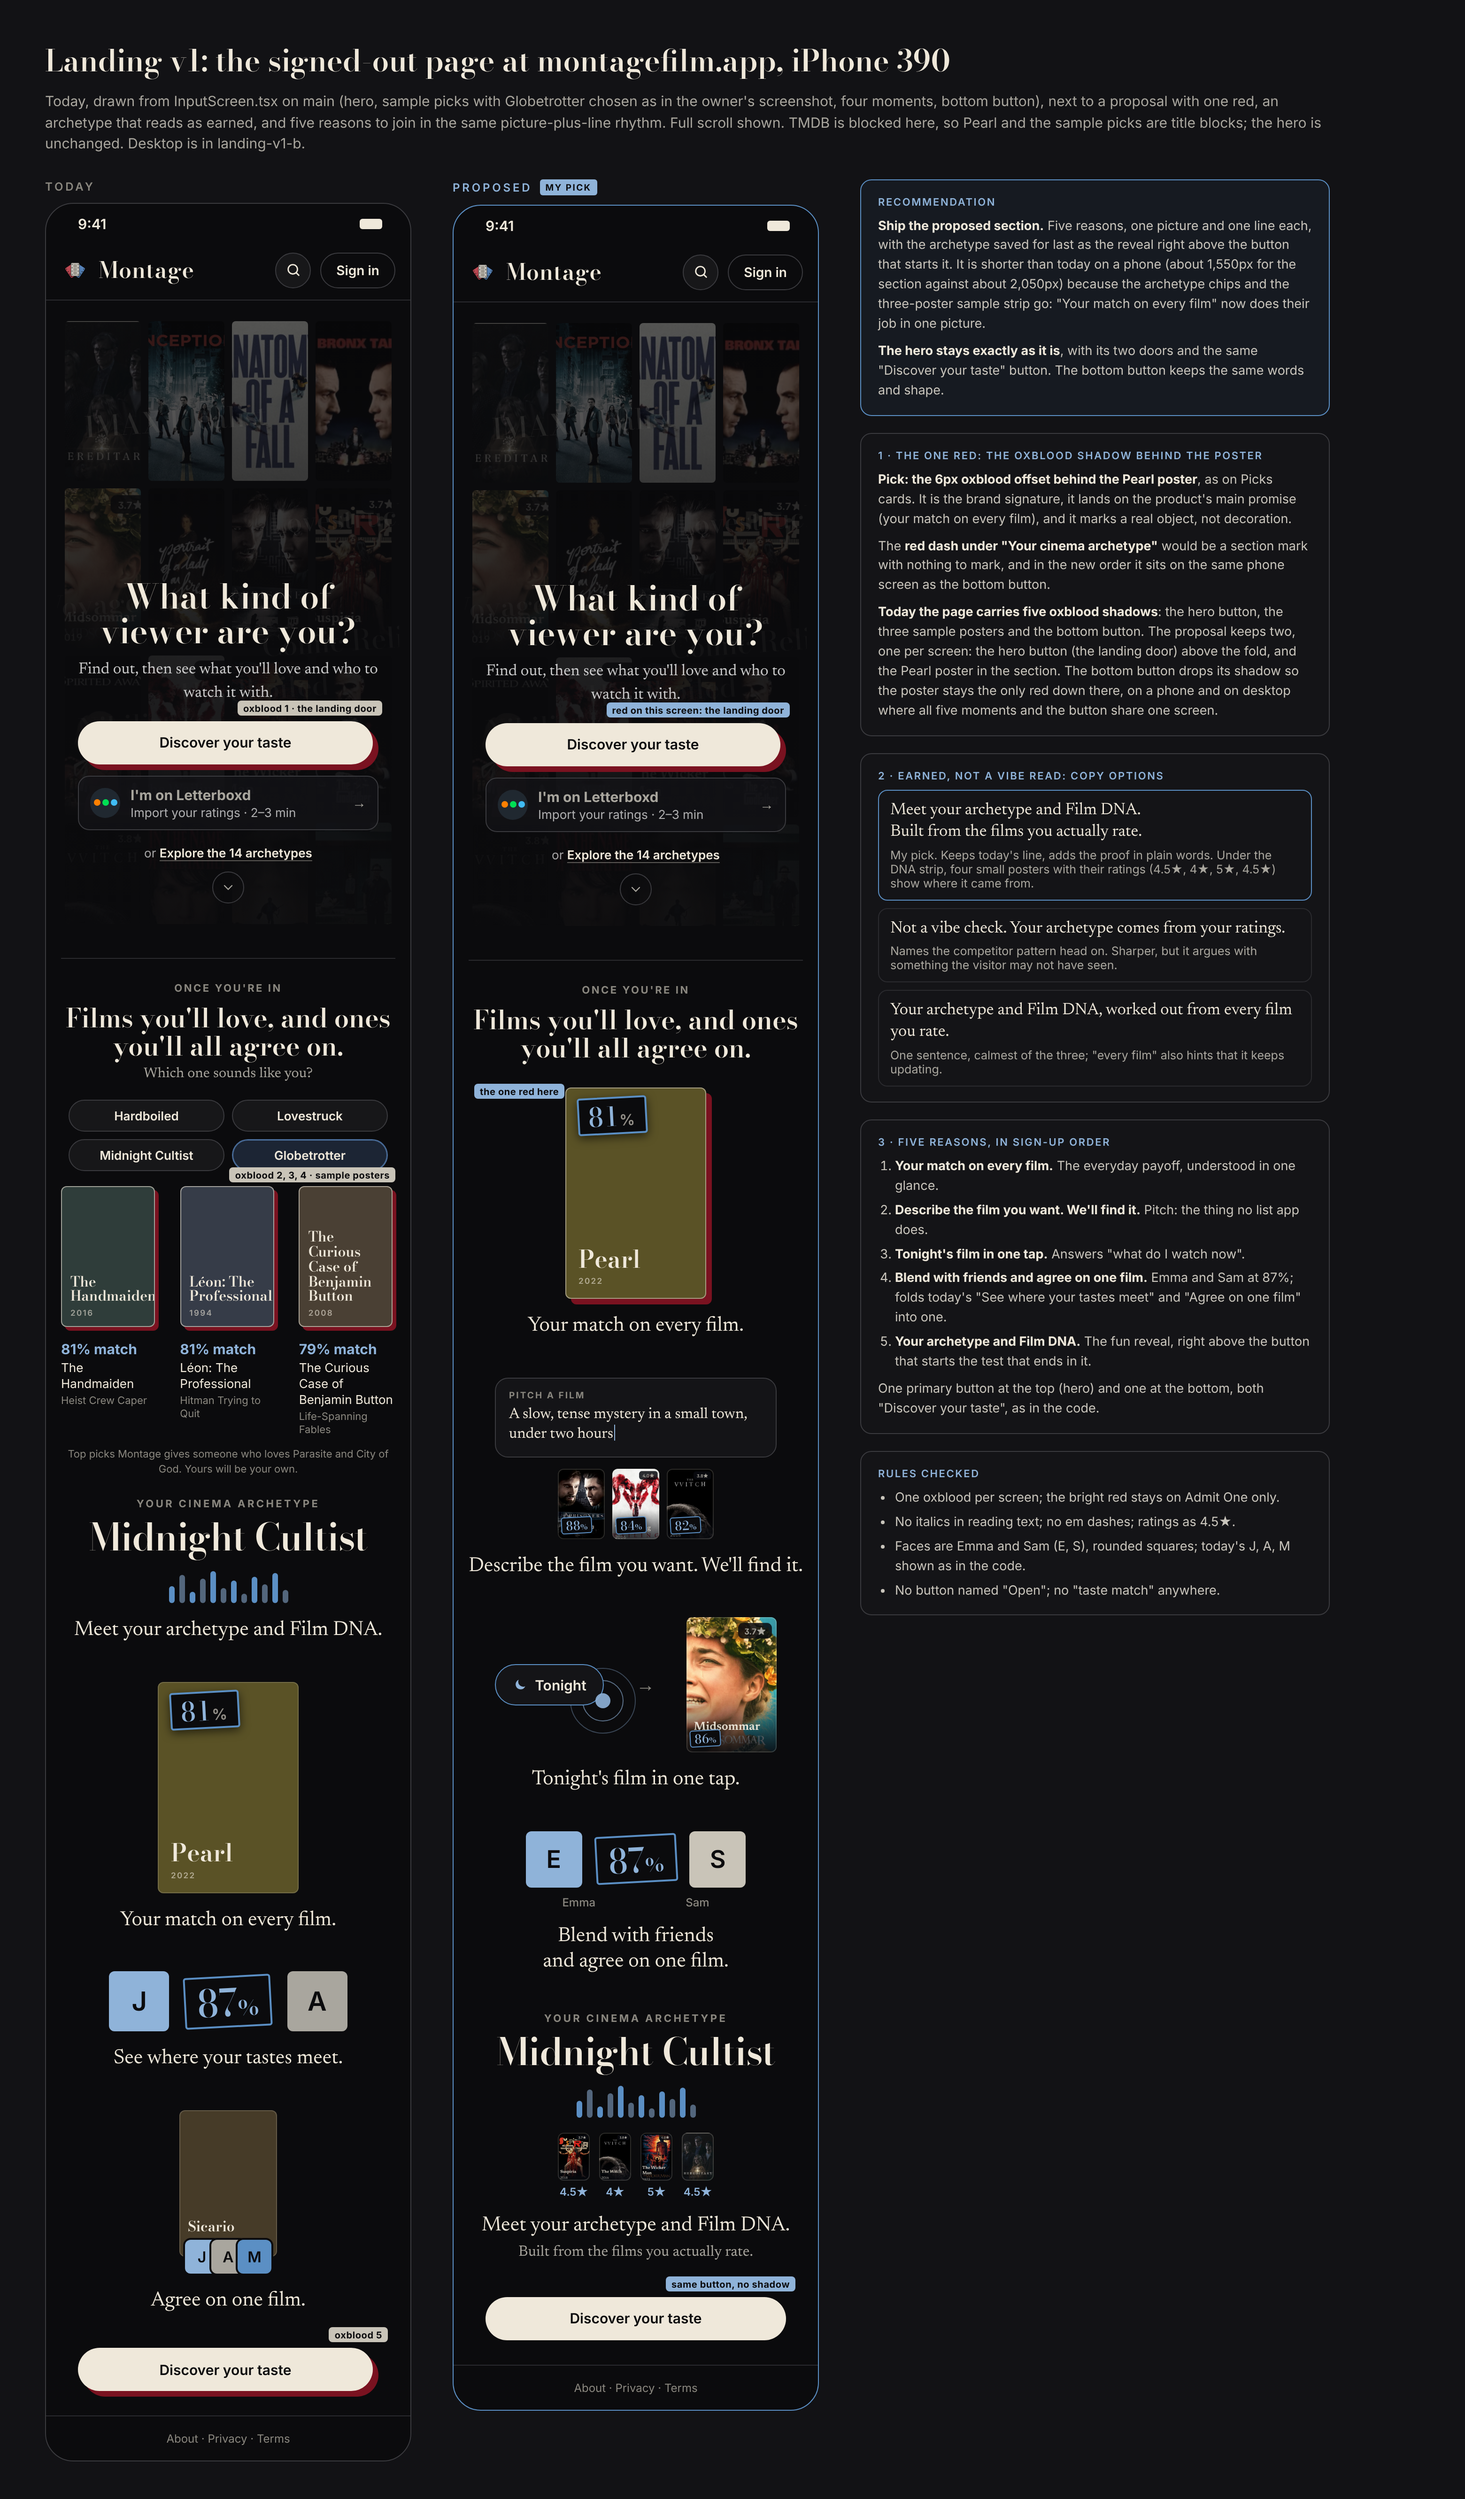
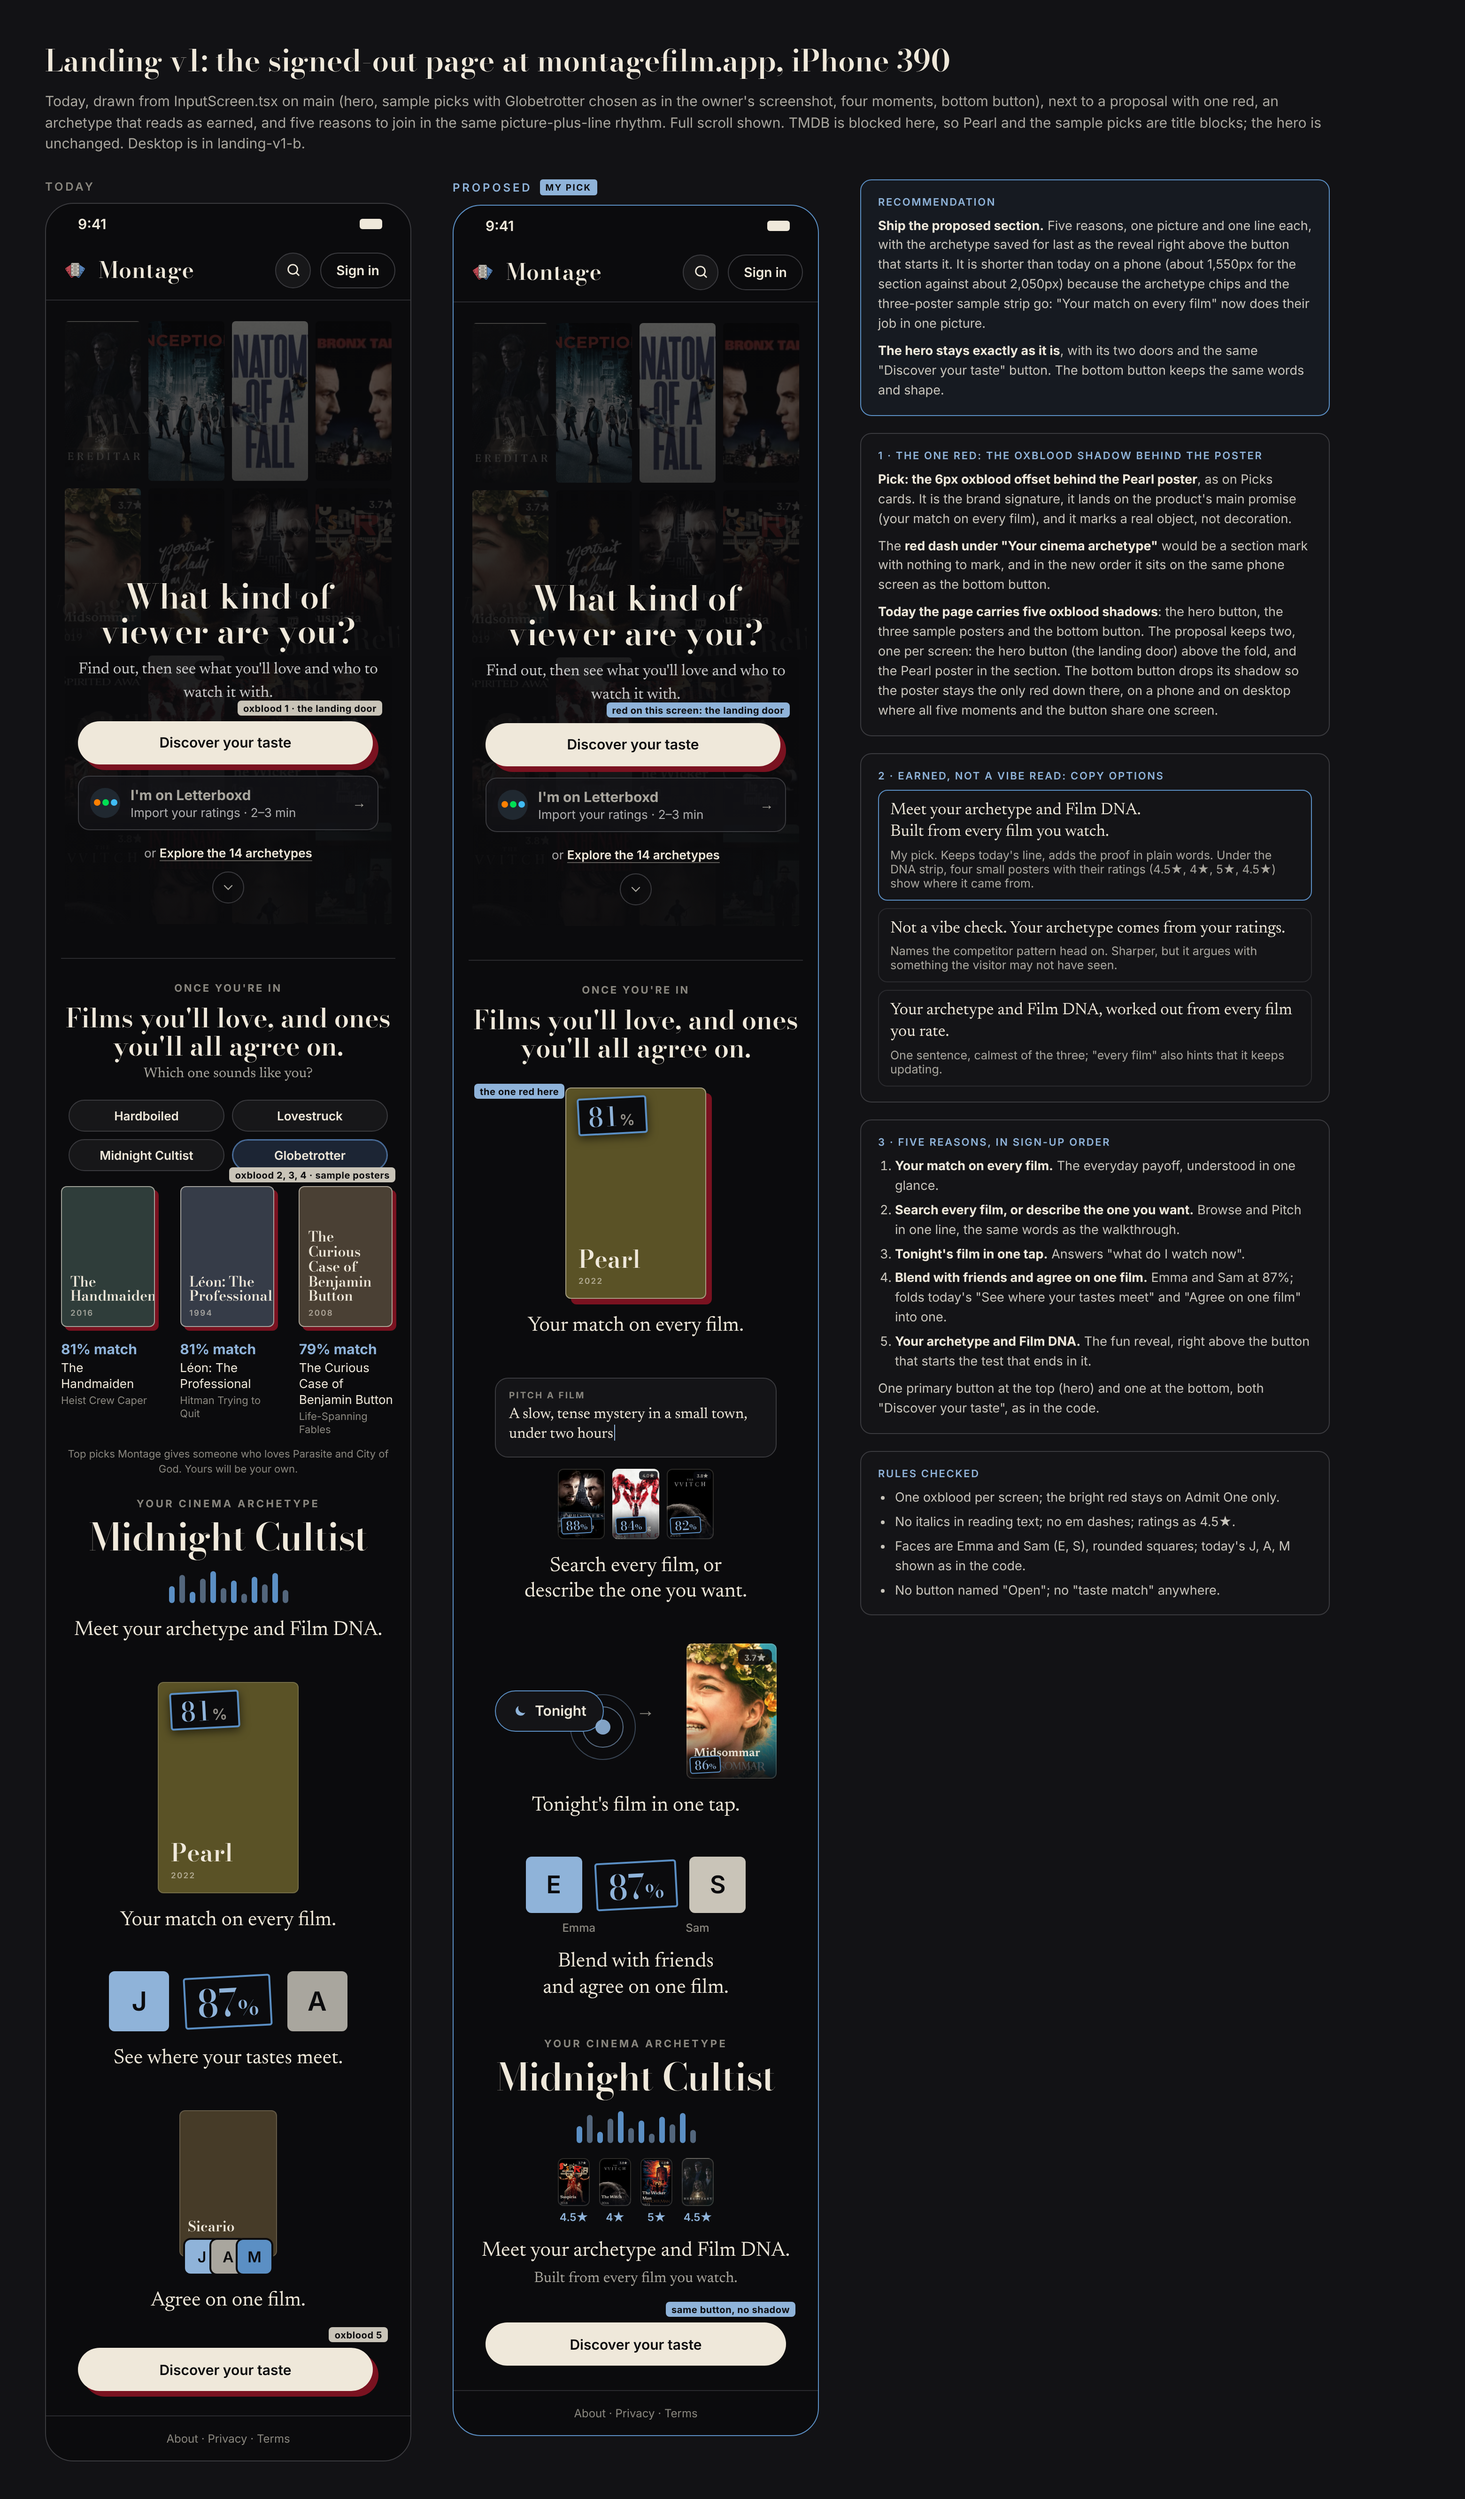
Landing mock: every film you watch; search or describe line
Claude-Session: https://claude.ai/code/session_013WRDCFXH8nihP92apJAVW7

Changed region(s): [[0.3109, 0.6238, 0.5596, 0.9669], [0.6218, 0.4679, 0.8083, 0.4991]]

diff --git a/mockups/journeys/landing-v1.js b/mockups/journeys/landing-v1.js
@@ -60,7 +60,7 @@ function proposed(d) {
 <div class="mo" style="position:relative"><span class="cl" style="left:${d ? 0 : 6}px;top:-4px">the one red here</span><div class="vis">${tb('pearl', W + 14, stamp(81), 'lg sig')}</div><p class="cap">Your match on every film.</p></div>
 <div class="mo"><div class="vis"><div class="pitch"><div class="field"><span class="flab">Pitch a film</span>A slow, tense mystery in a small town, under two hours<span class="caret"></span></div>
 <div class="res">${po('prisoners.png', 50, stamp(88, 's'))}${po('wailing.png', 50, stamp(84, 's'))}${po('witch.png', 50, stamp(82, 's'))}</div></div></div>
-<p class="cap">Describe the film you want. We'll find it.</p></div>
+<p class="cap">Search every film, or describe the one you want.</p></div>
 <div class="mo"><div class="vis"><div class="tn"><span class="tap"><span class="btn"><svg width="16" height="16" viewBox="0 0 24 24" fill="currentColor"><path d="M20 14.5A8 8 0 0 1 9.5 4a8 8 0 1 0 10.5 10.5z"/></svg>Tonight</span><span class="ring"></span><span class="ring r2"></span><span class="dot"></span></span>
 <span class="arr">→</span>${po('midsommar.png', d ? 92 : 96, stamp(86, 's'))}</div></div><p class="cap">Tonight's film in one tap.</p></div>
 <div class="mo"><div class="vis"><div class="night"><div class="pair" style="gap:14px">${av('E', 60)}<b class="pct" style="font-size:36px">87<small>%</small></b>${av('S', 60)}</div>
@@ -68,7 +68,7 @@ function proposed(d) {
 <p class="cap">Blend with friends and agree on one film.</p></div>
 <div class="mo"><div class="vis"><div class="arch"><small>Your cinema archetype</small>Midnight Cultist</div>${dna()}
 <div class="rated"><div class="r">${po('suspiria.png', 34)}<span>4.5★</span></div><div class="r">${po('witch.png', 34)}<span>4★</span></div><div class="r">${po('wickerman.png', 34)}<span>5★</span></div><div class="r">${po('hereditary.png', 34)}<span>4.5★</span></div></div></div>
-<p class="cap">Meet your archetype and Film DNA.</p><p class="cap2">Built from the films you actually rate.</p></div>
+<p class="cap">Meet your archetype and Film DNA.</p><p class="cap2">Built from every film you watch.</p></div>
 </div>
 <div class="bcta" style="position:relative"><span class="cl" style="right:-10px;top:-22px">same button, no shadow</span><div class="cta flat">Discover your taste</div></div></div>
 <div class="ft">About · Privacy · Terms</div>`;

diff --git a/mockups/journeys/landing-v1-a.html b/mockups/journeys/landing-v1-a.html
@@ -22,14 +22,14 @@
 <p><b>Today the page carries five oxblood shadows</b>: the hero button, the three sample posters and the bottom button. The proposal keeps two, one per screen: the hero button (the landing door) above the fold, and the Pearl poster in the section. The bottom button drops its shadow so the poster stays the only red down there, on a phone and on desktop where all five moments and the button share one screen.</p></div>
 
 <div class="box"><h3>2 · Earned, not a vibe read: copy options</h3>
-<div class="opt on"><div class="q">Meet your archetype and Film DNA.<br>Built from the films you actually rate.</div><div class="w">My pick. Keeps today's line, adds the proof in plain words. Under the DNA strip, four small posters with their ratings (4.5★, 4★, 5★, 4.5★) show where it came from.</div></div>
+<div class="opt on"><div class="q">Meet your archetype and Film DNA.<br>Built from every film you watch.</div><div class="w">My pick. Keeps today's line, adds the proof in plain words. Under the DNA strip, four small posters with their ratings (4.5★, 4★, 5★, 4.5★) show where it came from.</div></div>
 <div class="opt"><div class="q">Not a vibe check. Your archetype comes from your ratings.</div><div class="w">Names the competitor pattern head on. Sharper, but it argues with something the visitor may not have seen.</div></div>
 <div class="opt"><div class="q">Your archetype and Film DNA, worked out from every film you rate.</div><div class="w">One sentence, calmest of the three; "every film" also hints that it keeps updating.</div></div></div>
 
 <div class="box"><h3>3 · Five reasons, in sign-up order</h3>
 <ol>
 <li><b>Your match on every film.</b> The everyday payoff, understood in one glance.</li>
-<li><b>Describe the film you want. We'll find it.</b> Pitch: the thing no list app does.</li>
+<li><b>Search every film, or describe the one you want.</b> Browse and Pitch in one line, the same words as the walkthrough.</li>
 <li><b>Tonight's film in one tap.</b> Answers "what do I watch now".</li>
 <li><b>Blend with friends and agree on one film.</b> Emma and Sam at 87%; folds today's "See where your tastes meet" and "Agree on one film" into one.</li>
 <li><b>Your archetype and Film DNA.</b> The fun reveal, right above the button that starts the test that ends in it.</li>
